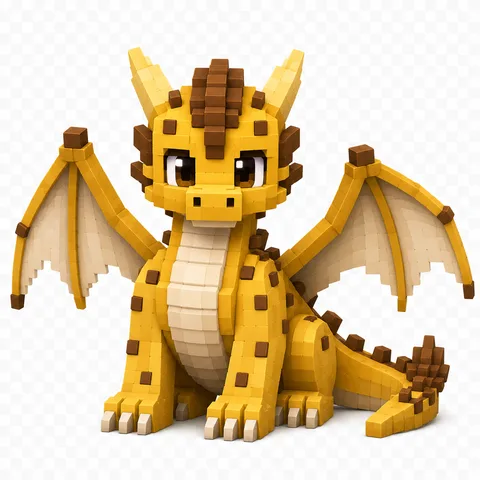
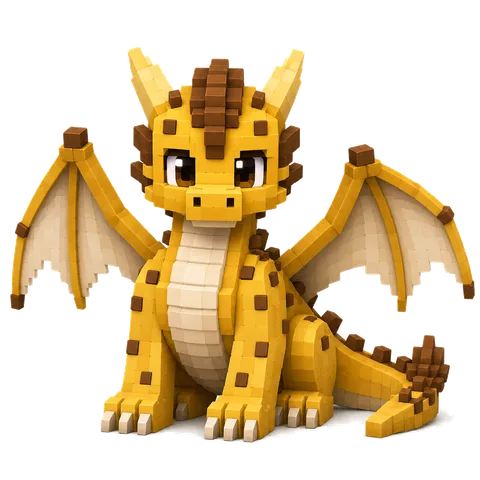
Fix

Changed region(s): [[0.6562, 0.4375, 0.6875, 0.4688], [0.625, 0.4688, 0.6562, 0.5]]

diff --git a/CHANGELOG.md b/CHANGELOG.md
@@ -19,6 +19,12 @@ Automatisch von Claude Code gepflegt: **nach jeder Code-/SQL-Änderung kommt hie
 
 ---
 
+## 2026-08-03
+
+- **[Fix]** Phils Jugendlich-Sprite hatte einen weißen statt transparenten Hintergrund (Admin-Feedback: "Bei ihm muss der weisse Hintergrund noch entfernt werden"). Bestätigt per Pixel-Check: alle anderen 95 Kombinationen (24 Arten × egg/baby/teen/adult) hatten 26-66% transparente Pixel, nur `teen/phil.png` lag bei 0,0% - ein isolierter Einzelfall, keine systemische Lücke (auch die 6 gerade erst hinzugefügten NeueNeueDrachen-Bilder waren alle sauber). Behoben mit demselben Flood-Fill-Verfahren, das schon für Kaledoss verwendet wurde (`scripts/fix-kaledoss-background.ps1`) - startet an allen vier Bildrändern, färbt nur mit dem Rand verbundene naheweiße Pixel transparent, lässt einen hellen Fleck mitten im Drachen unangetastet. WebP/PNG-Web-Varianten neu erzeugt (waren sonst weiter mit dem alten, kaputten Bild gecacht). Nach dem Fix erneut alle 96 Kombinationen geprüft - keine unter 5% Transparenz mehr. — `assets/dragons/breeding/teen/phil.png` + `-web.png`/`-web.webp` — 🟡 lokal
+
+---
+
 ## 2026-08-02 (2)
 
 - **[Neu]** 6 neue Zucht-Drachenarten: **Fynnow, Vulkarion, Bloodterion, Gravoryx** (Episch) + **Lohendrache, Darknisdrache** (Legendär) - Nutzer lieferte alle 24 Bilder (Ei/Baby/Jugendlich/Erwachsen je Art) als ZIP mit eindeutigen Dateinamen ("BloodterionEi.png", "Baby Fynnow.png", ...), dadurch keine Ratearbeit bei der Bild-Zuordnung nötig (eine vorherige Rückfrage zur Bild-Zuordnung war damit hinfällig). Werte 1:1 von der bereits etablierten Episch-/Legendär-Stufe übernommen (identisches Muster wie Byte/Enderdrachen/Kaledoss/Nytherion/Phil vom 18.07.) - reine Katalog-Erweiterung, keine Code-Änderung nötig (`dragon_species` ist bereits vollständig datengetrieben, `bkmpDungeonRollEgg()` nimmt neue aktive Arten automatisch in den seltenheits-gewichteten Ei-Pool auf). Bilder auf max. 480px verkleinert + WebP-Variante erzeugt (62,1MB → 1,5MB WebP), gleiches Verfahren wie bei allen bisherigen Zucht-Sprites. Alle 24 WebP-Dateien per direktem Abruf gegen den lokalen Server verifiziert (laden korrekt, plausible Dateigrößen). — neu: `sql/20260802-dragon-species-neue-neue-drachen.sql` (**noch nicht ausgeführt**), 72 neue Bild-Dateien unter `assets/dragons/breeding/{egg,baby,teen,adult}/` — 🟡 lokal
